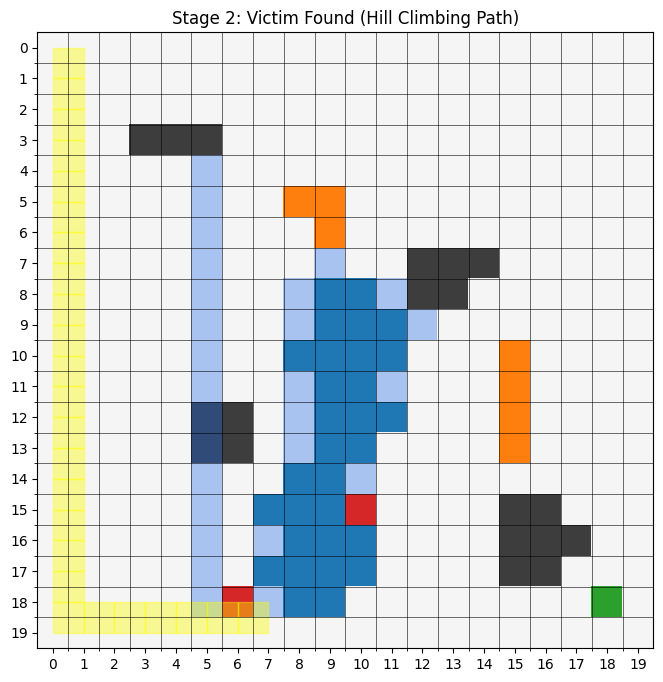
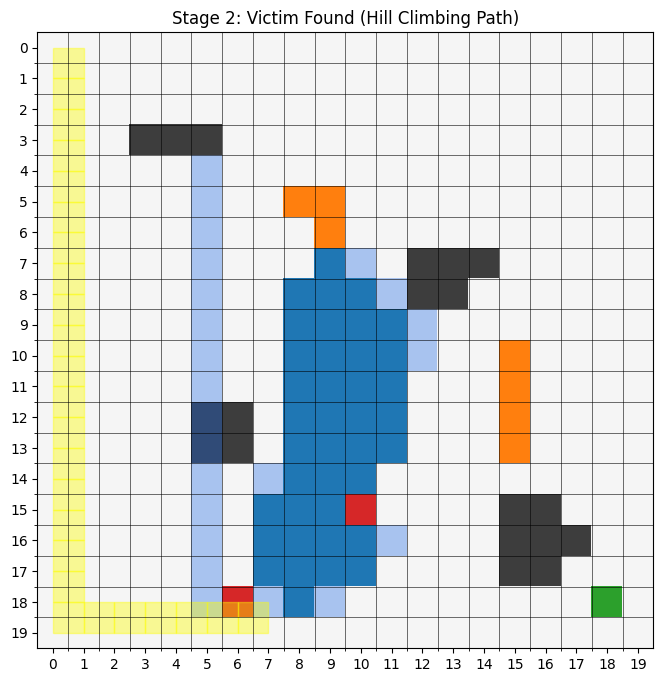
re run these files

diff --git a/Environment/grid.py b/Environment/grid.py
@@ -148,9 +148,6 @@ def is_passable(row, col):
     if cell_type[row][col] == BLOCKED:
         return False
 
-    if water_level[row][col] > FLOOD_THRESHOLD:
-        return False
-
     return True
 
 # =====================================================